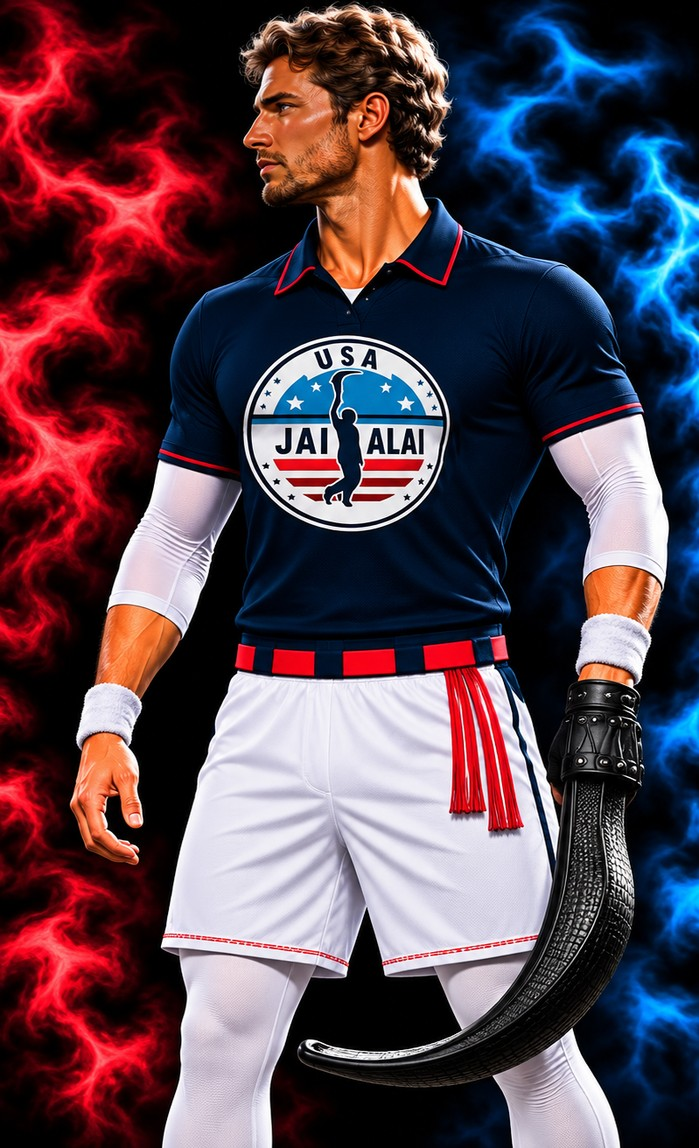
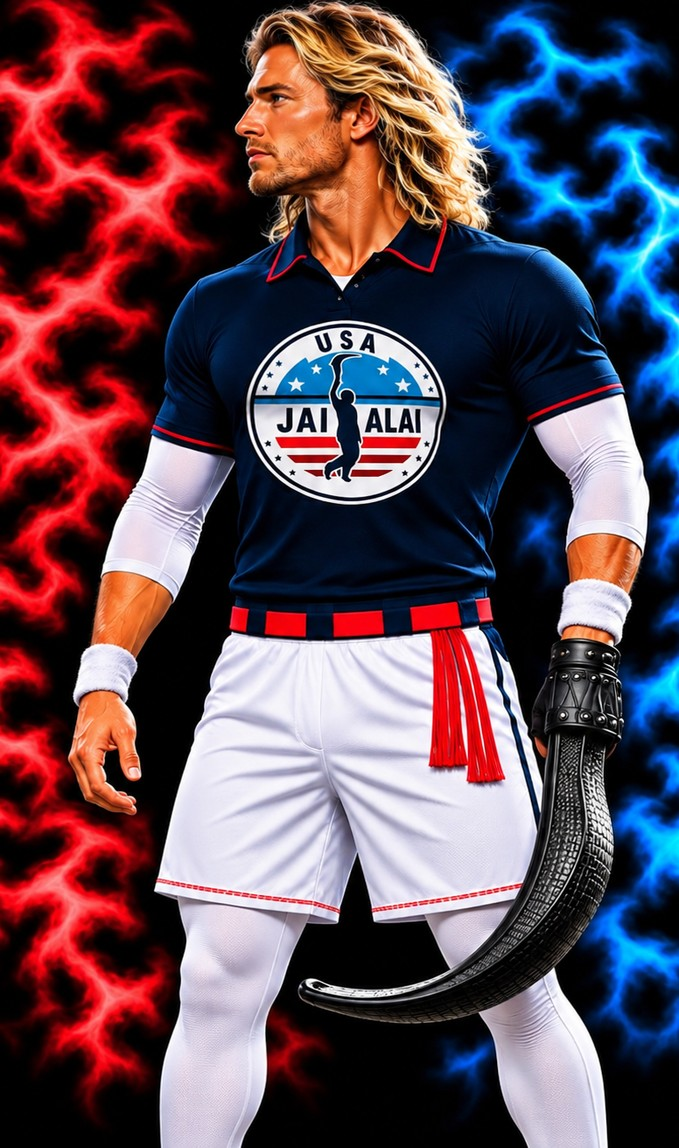
New Team USA men face-off picture
Claude-Session: https://claude.ai/code/session_01RXYkimbn35SjoihCfai7fS

diff --git a/index.html b/index.html
@@ -18,7 +18,7 @@ img { max-width: 100%; }
 [hidden] { display: none !important; }
 </style>
 <script>
-window.FL_BUILD = "20261124221827";
+window.FL_BUILD = "20261124224424";
 window.FL_RELAY = "wss://relay-production-5e78c1a2.up.railway.app/ws";
 window.FL_STATS = "https://relay-production-5e78c1a2.up.railway.app/t";
 window.FL_FEEDBACK = "https://relay-production-5e78c1a2.up.railway.app/feedback";
@@ -2711,7 +2711,7 @@ window.FLFeedback = (function () {
   /* ---------- matchup poster (preview build only): a still court, a Tap to Play button, then the poster while the match loads ---------- */
   var POSTER = !!window.FL_POSTER;
   if (POSTER) document.body.classList.add('poster-on');
-  var POSTERS = { '7m': 'poster-7-m.jpg?v=14', '8m': 'poster-8-m.jpg?v=14', '9m': 'poster-9-m.jpg?v=14', '10m': 'poster-10-m.jpg?v=14', '11m': 'poster-11-m.jpg?v=14', '0m': 'poster-0-m.jpg?v=14', '1m': 'poster-1-m.jpg?v=14', '2m': 'poster-2-m.jpg?v=14', '3m': 'poster-3-m.jpg?v=14', '4m': 'poster-4-m.jpg?v=14', '5m': 'poster-5-m.jpg?v=14', '0w': 'poster-0-w.jpg?v=14', '1w': 'poster-1-w.jpg?v=14', '2w': 'poster-2-w.jpg?v=14', '3w': 'poster-3-w.jpg?v=14', '4w': 'poster-4-w.jpg?v=14', '5w': 'poster-5-w.jpg?v=14', '6m': 'poster-6-m.jpg?v=14', '6w': 'poster-6-w.jpg?v=14' };   // roster index + m/w. Each half faces right; missing ones fall back to the team badge
+  var POSTERS = { '7m': 'poster-7-m.jpg?v=15', '8m': 'poster-8-m.jpg?v=15', '9m': 'poster-9-m.jpg?v=15', '10m': 'poster-10-m.jpg?v=15', '11m': 'poster-11-m.jpg?v=15', '0m': 'poster-0-m.jpg?v=15', '1m': 'poster-1-m.jpg?v=15', '2m': 'poster-2-m.jpg?v=15', '3m': 'poster-3-m.jpg?v=15', '4m': 'poster-4-m.jpg?v=15', '5m': 'poster-5-m.jpg?v=15', '0w': 'poster-0-w.jpg?v=15', '1w': 'poster-1-w.jpg?v=15', '2w': 'poster-2-w.jpg?v=15', '3w': 'poster-3-w.jpg?v=15', '4w': 'poster-4-w.jpg?v=15', '5w': 'poster-5-w.jpg?v=15', '6m': 'poster-6-m.jpg?v=15', '6w': 'poster-6-w.jpg?v=15' };   // roster index + m/w. Each half faces right; missing ones fall back to the team badge
   function posterHalf(el, t, side) {                              // mixed: a man on the left, a woman on the right
     var r = ROSTER[t], wt = whoOf(side), g = wt === 'women' || (wt === 'mixed' && side) ? 'w' : 'm', src = POSTERS[t + g] || null;   // no picture for that side yet: its badge or flag
     el.innerHTML = ''; el.style.backgroundImage = '';
